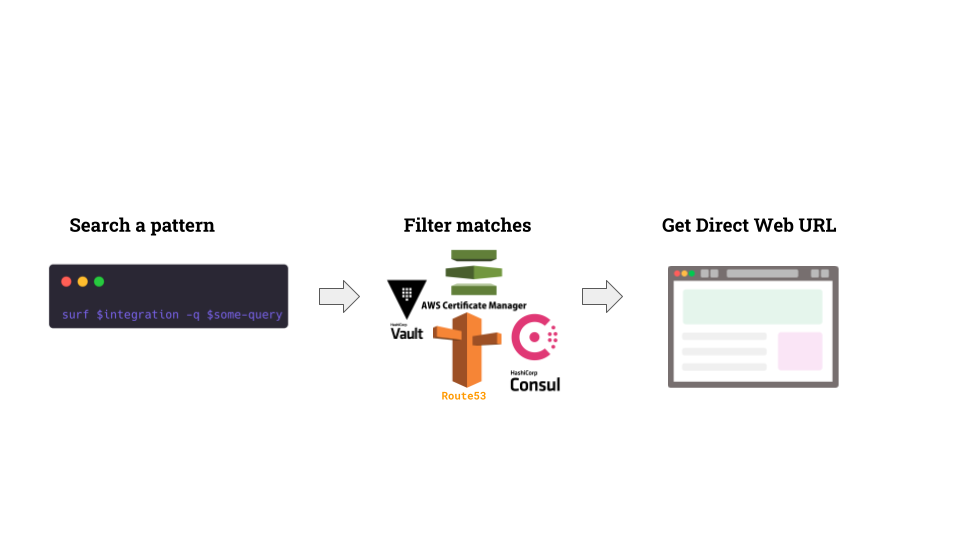
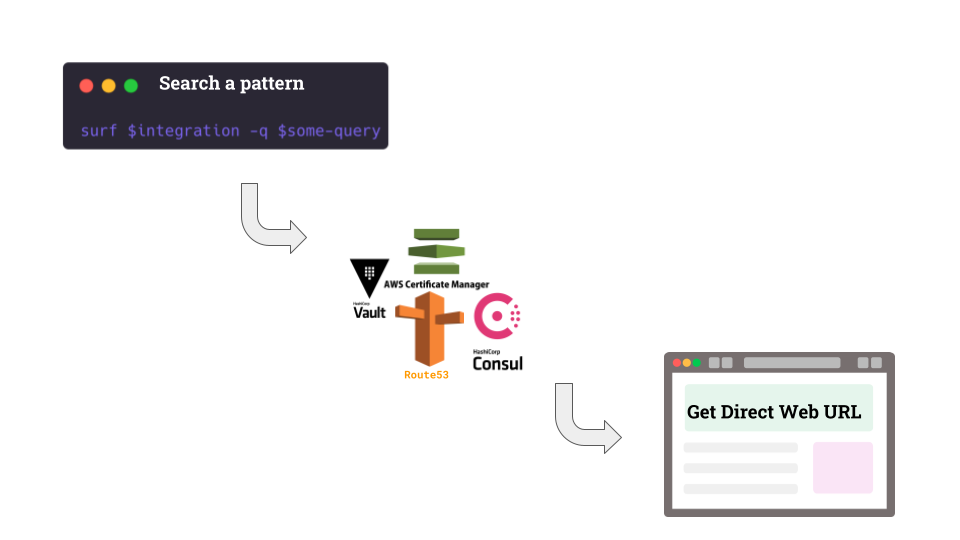
fix README

diff --git a/README.md b/README.md
@@ -2,13 +2,12 @@
 
 Free Text Search across your infrastructure platforms via CLI.
 
+It's like `... | grep` but for your entire infrastructure!
+
 S.U.R.F is an acronym for: `Search-Unified-Recursive-Fast` 
 
+
 ![image info](./docs/xs-logo.png)
-
-## Find Results in seconds! 
-
-![image info](./docs/surf-flow.png)
 
 # Supported Platforms
 
@@ -18,7 +17,36 @@ S.U.R.F is an acronym for: `Search-Unified-Recursive-Fast`
 - [X] [Hashicorp Consul KV](https://www.consul.io/docs/dynamic-app-config/kv)
 - [ ] Kubernetes - TODO  
 
-# AWS Route53 Usage 
+# Table of Contents 
+
+- [Overview](#overview)
+- [Usage Examples](#usage-examples)
+  * [AWS Route53 Usage](#aws-route53-usage)
+  * [AWS ACM Usage](#aws-acm-usage)
+  * [Hashicorp Vault Usage](#hashicorp-vault-usage)
+  * [Hashicorp Consul Usage](#hashicorp-consul-usage)
+- [Install](#install)
+    + [Brew](#brew)
+    + [Download Binary](#download-binary)
+    + [Install from Source](#install-from-source)
+- [Authentication](#authentication)
+  * [Supported Authentication Methods](#supported-authentication-methods)
+- [Version check](#version-check)
+- [How it Works](#how-it-works)
+
+<small><i><a href='http://ecotrust-canada.github.io/markdown-toc/'>Table of contents generated with markdown-toc</a></i></small>
+
+# Overview
+
+SURF is built for Infrastructure Engineers as a CLI tool that enables searching any pattern across different platforms. 
+Usually, the results are returned with a direct web URL. 
+
+The search process depends on the context, for example: if you're searching in Vault it'll pattern match against keys. Instead, if you're searching in Route53 AWS a DNS address it'll return links to the targets behind it (e.g Load balancer). 
+
+
+# Usage Examples 
+
+## AWS Route53 Usage 
 
 Based on [AWS Route53](https://github.com/Isan-Rivkin/route53-cli): Search what's behind domain `api.my-corp.com`: 
 
@@ -26,7 +54,7 @@ Based on [AWS Route53](https://github.com/Isan-Rivkin/route53-cli): Search what'
 surf r53 -q api.my-corp.com
 ```
 
-# AWS ACM Usage 
+## AWS ACM Usage 
 
 Search inside ACM Certificates in AWS.
 
@@ -42,7 +70,7 @@ Example search: certificate attached to a loab balancer:
 surf acm -q 's:elasticloadbalancing:us-west-2:123:loadbalancer/app/alb' --filter-used-by
 ```
 
-# Hashicorp Vault Usage 
+## Hashicorp Vault Usage 
 
 Search the query `aws` in Vault: 
 
@@ -62,7 +90,7 @@ Store LDAP auth on your OS keychain:
 surf config
 ```
 
-# Hashicorp Consul Usage
+## Hashicorp Consul Usage
 
 Search all keys containing the substring `server` 
 
@@ -106,11 +134,11 @@ cd surf
 go run main.go
 ```
 
-# Supported Auth methods per platform
+# Authentication
 
 *Please open a PR and request additional methods if you need.*
 
-## Authentication Methods 
+## Supported Authentication Methods 
 
 - [x] Vault - LDAP (run `$surf config` )
 - [x] AWS - via profile on `~/.aws/credentials file`
@@ -126,4 +154,6 @@ If you wish to opt out set the environment variable `SURF_VERSION_CHECK=false`.
 No Data is collected it is purely [github.com](https://github.com/Isan-Rivkin/surf/releases) query.
 
 
+# How it Works 
 
+![image info](./docs/surf-flow.png)
